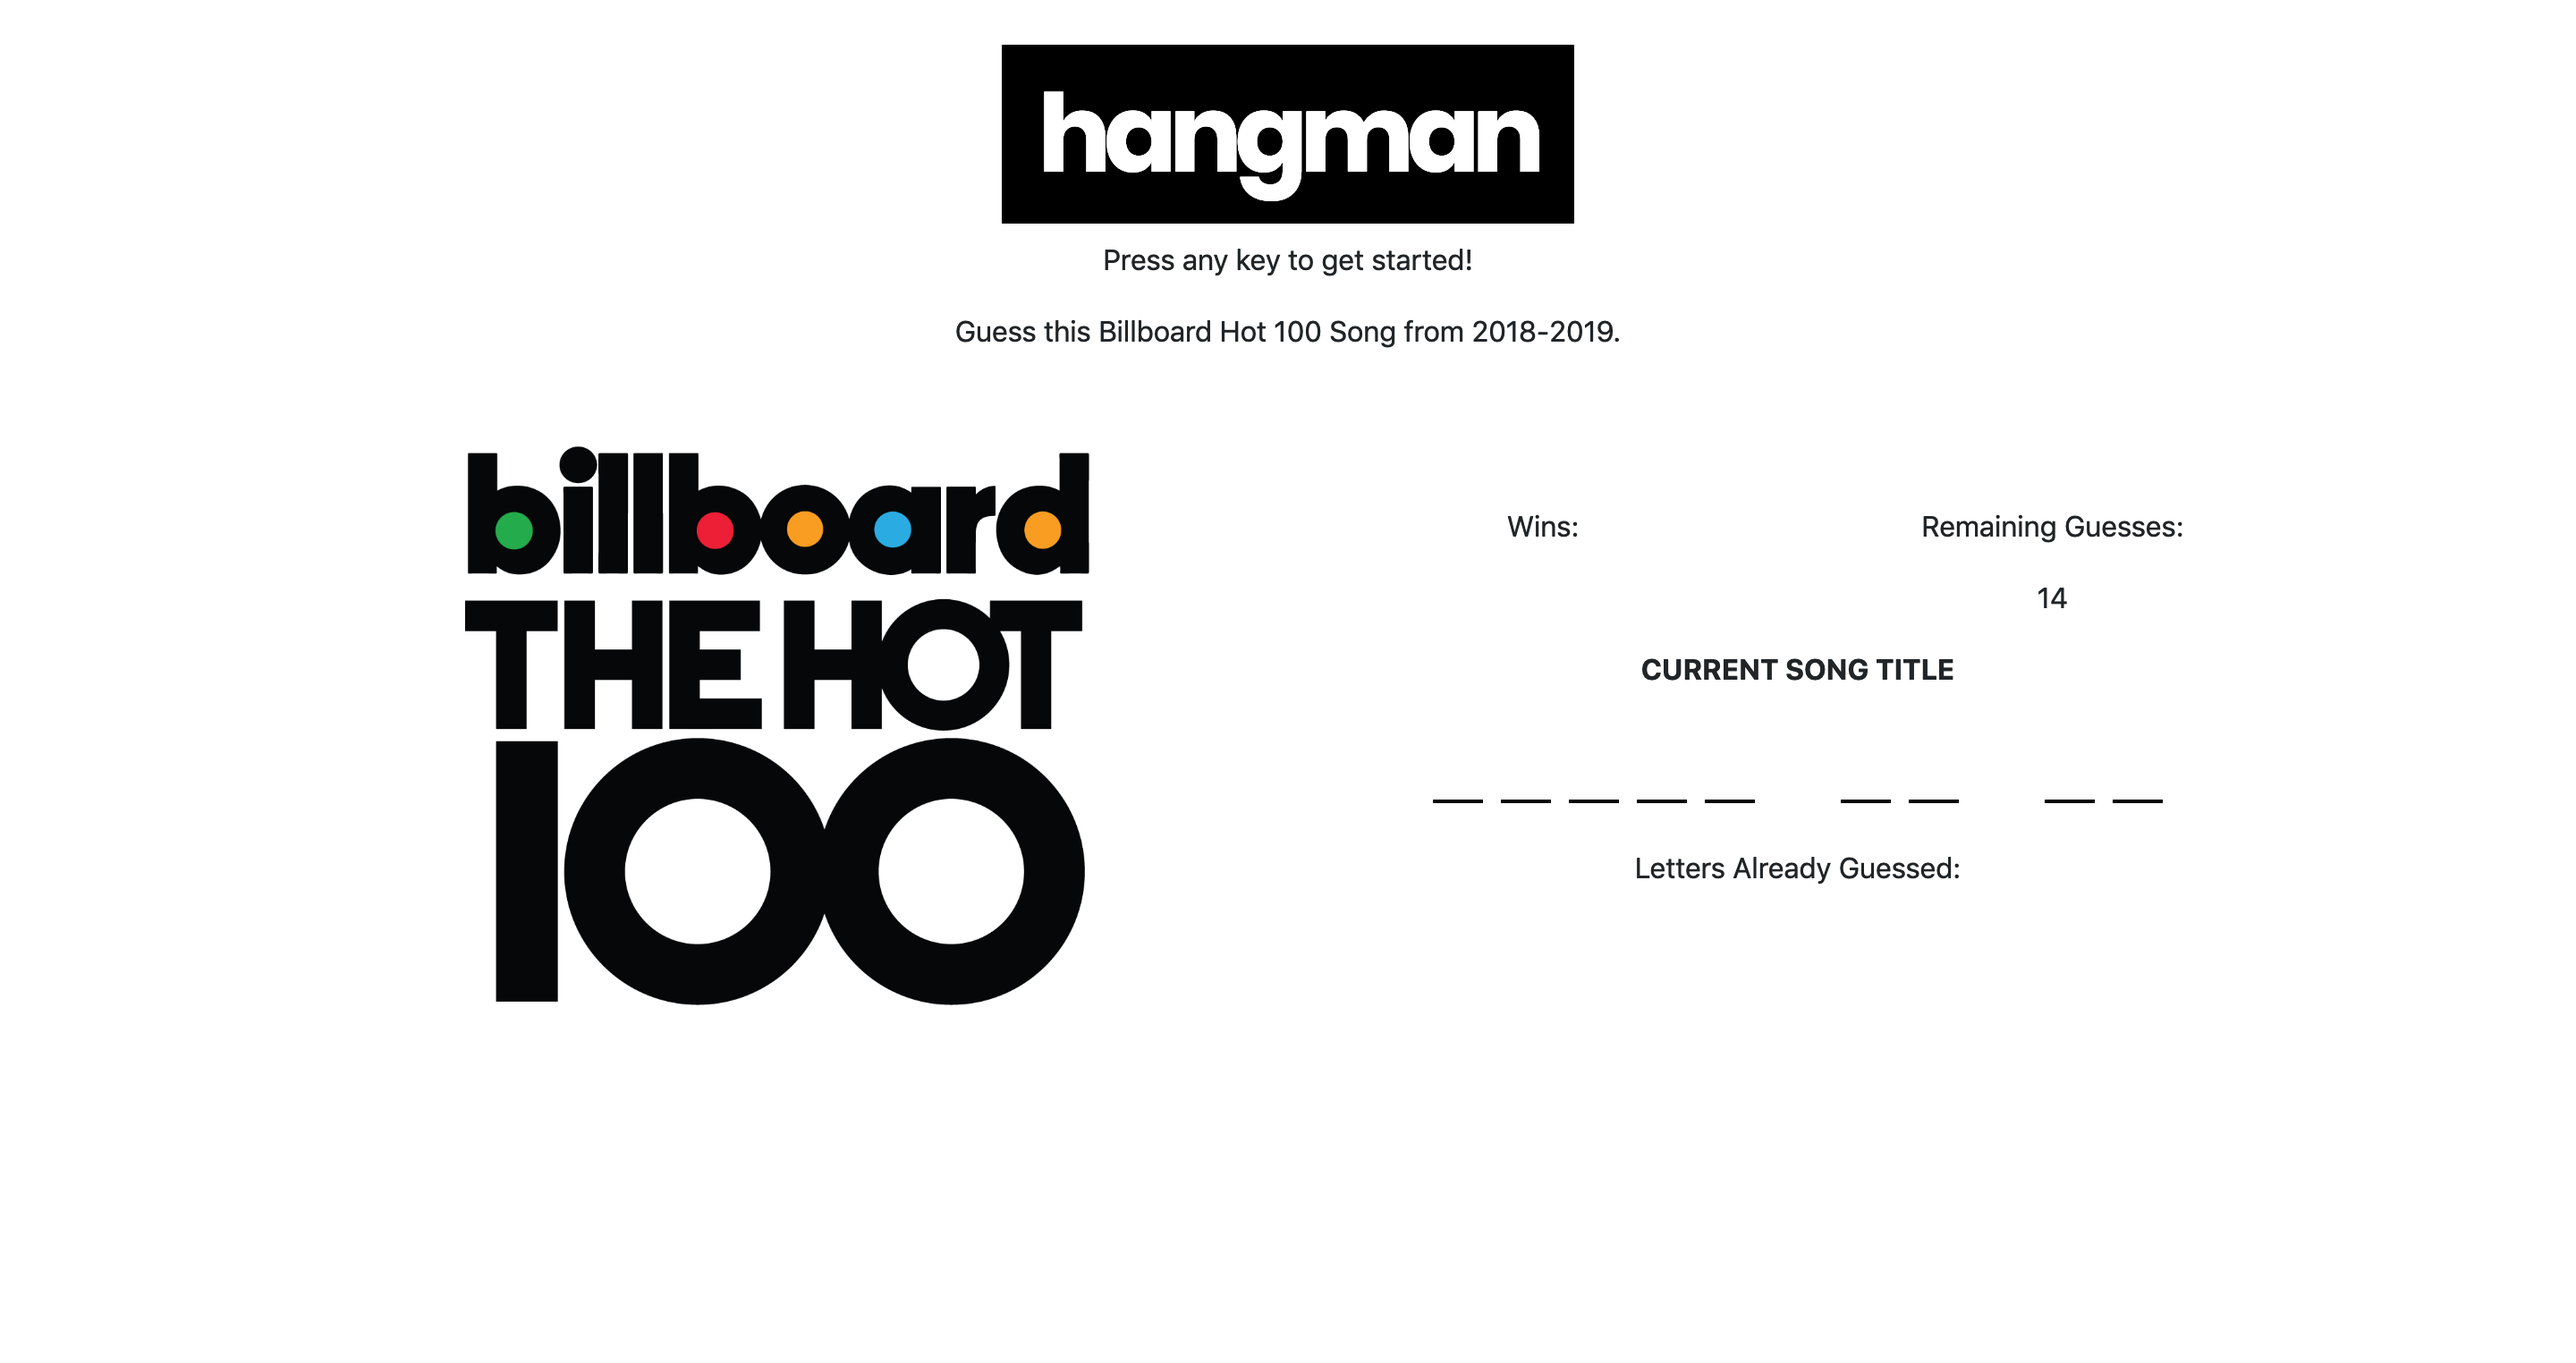
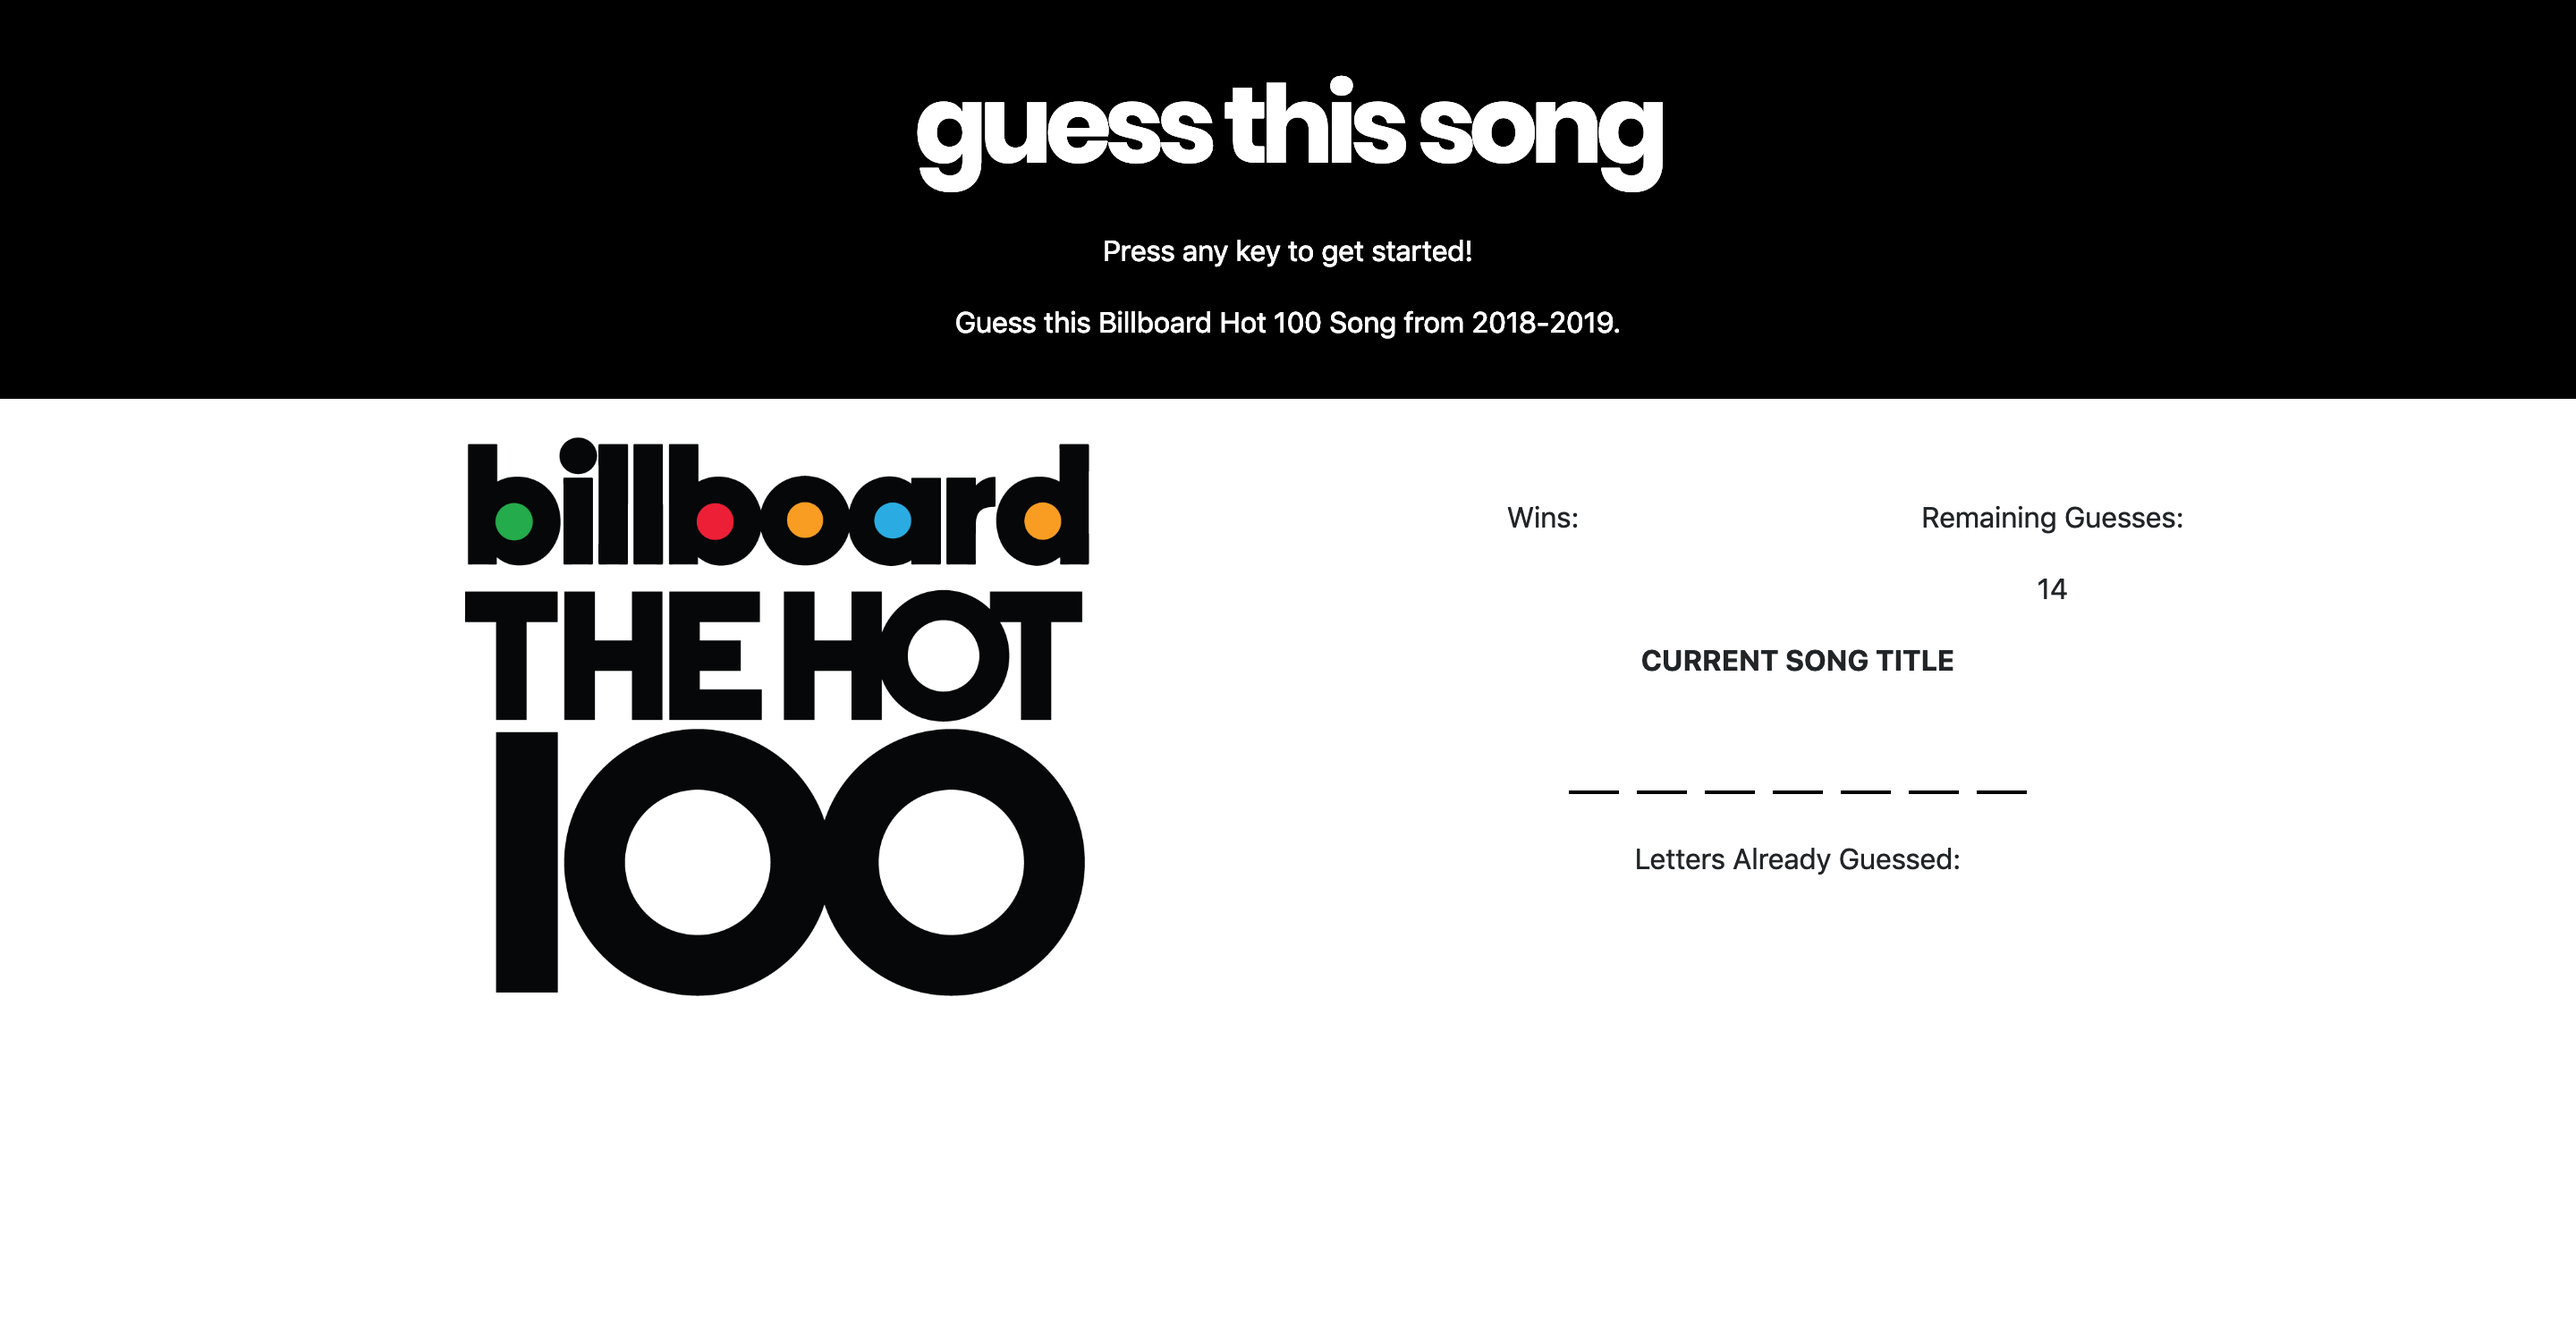
final style changes

diff --git a/assets/javascript/game.js b/assets/javascript/game.js
@@ -74,7 +74,7 @@ var game = {
     chosenSongAudio: "",
     lettersGuessed: [],
     wins: 0,
-    remainingGuesses: undefined,
+    remainingGuesses: null,
 
     // DOM variables
     chosenSongText: document.getElementById('chosen-song'),
@@ -97,7 +97,7 @@ var game = {
             // get random song name from songs array
             game.chosenSong = game.songs[Math.floor(Math.random() * game.songs.length)].song.toLowerCase();
             game.playAgainButton.classList.remove('show');
-            console.log('game started');
+            // console.log('game started');
 
             // reset guesses
             game.remainingGuesses = 14;
@@ -145,7 +145,7 @@ var game = {
         for (var i = 0; i < game.songs.length; i++) {
             if (game.songs[i].song.toLowerCase() === game.chosenSong) {
                 game.chosenSongAudio = game.songs[i].audio;
-                console.log(game.chosenSongAudio);
+                // console.log(game.chosenSongAudio);
                 game.chosenSongAudio.play();
             }
         }
@@ -156,7 +156,7 @@ var game = {
         var emptyLis = 0;
         for (var i = 0; i < game.chosenSong.length; i++) {
             // get length of strings in each <li>
-            var content = document.getElementById(i.toString()).textContent;
+            // var content = document.getElementById(i.toString()).textContent;
             var length = document.getElementById(i.toString()).textContent.length;
             //if empty, 
             if (length === 0) {
@@ -181,7 +181,7 @@ var game = {
             if (game.remainingGuesses > 1) {
                 game.updateGuesses();
             } else if (game.remainingGuesses === 1) {
-                console.log('guess = 1');
+                // console.log('guess = 1');
                 game.updateGuesses();
                 game.youLose();
             } else if (game.remainingGuesses === 0) {
@@ -192,7 +192,7 @@ var game = {
 
     // if fail
     youLose: function () {
-        console.log('end game you lost');
+        // console.log('you lost');
         for (var i = 0; i < game.chosenSong.length; i++) {
             // reveal all letters
             document.getElementById(i.toString()).textContent = game.chosenSong[i];
@@ -205,7 +205,7 @@ var game = {
 
     // if win
     youWin: function () {
-        console.log('you win');
+        // console.log('you win');
         // add 1 to wins
         game.wins = game.wins + 1;
         // update wins on page
@@ -237,7 +237,6 @@ var game = {
         game.playAgainButton.classList.add('show');
         // set focus on button, so pressing enter will go to next song guess
         game.playAgainButton.focus();
-        console.log("button class should be added");
         game.playAgainButton.addEventListener('click', game.startGame);
     }
 
@@ -255,7 +254,7 @@ document.addEventListener("DOMContentLoaded", function () {
         document.onkeyup = function (event) {
 
             var letter = event.key.toLowerCase();
-            console.log(letter);
+            // console.log(letter);
 
             // if it's a valid letter, that hasn't already been guessed
             if (game.validGuesses.indexOf(letter) > -1 && game.lettersGuessed.indexOf(letter) === -1) {

diff --git a/assets/css/style.css b/assets/css/style.css
@@ -6,11 +6,9 @@ h1 {
     text-align: center;
     font-size: 60px;
     line-height: 1.5;
-    color: white;
     text-transform: lowercase;
     font-weight: bold;
     letter-spacing: -4px;
-    background: black;
     display: inline-block;
     padding: 5px 20px;
 }
@@ -19,13 +17,17 @@ img {
     width: 350px;
 }
 
-
-.title {
-    padding: 5px 15px 15px;
-    margin: 20px;
+.container-fluid {
+    background: black;
+    color: white;
 }
 
-#chosen-song /* ul */ {
+.title {
+    padding: 20px 15px 15px;
+    margin: 0 20px 20px;
+}
+
+#chosen-song {
     text-transform: uppercase;
     font-size: 30px;
     /* letter-spacing: 18px; */
@@ -92,7 +94,11 @@ input {
 
     .title {
         padding: 0;
-        margin-bottom: 0;
+        margin: 0;
+    }
+
+    .container {
+        margin-top: 20px;
     }
 }
 
@@ -116,7 +122,7 @@ input {
 
 @media screen and (max-width: 450px) {
     h1 {
-        font-size: 50px;
+        font-size: 48px;
         line-height: 1.5;
         letter-spacing: -4px;
     }

diff --git a/index.html b/index.html
@@ -13,16 +13,17 @@
     <link rel="stylesheet" type="text/css" href="assets/css/style.css">
 </head>
 <body>
-    <div class="container">
+    <div class="container-fluid">
         <!-- Title / Header Area -->
         <div class="row title">
             <div class="col-md-12 justify-content-center text-center">
-                <h1>HANGMAN</h1>
+                <h1>Guess This Song</h1>
                 <p>Press any key to get started!</p>
                 <p>Guess this Billboard Hot 100 Song from 2018-2019.</p>
             </div>
         </div>
-
+    </div>
+    <div class="container">
         <!-- Main Content -->
         <div class="row text-center mt-1">
             <div class="col-xl-6 col-lg-6 col-md-5 align-self-center mb-4">
